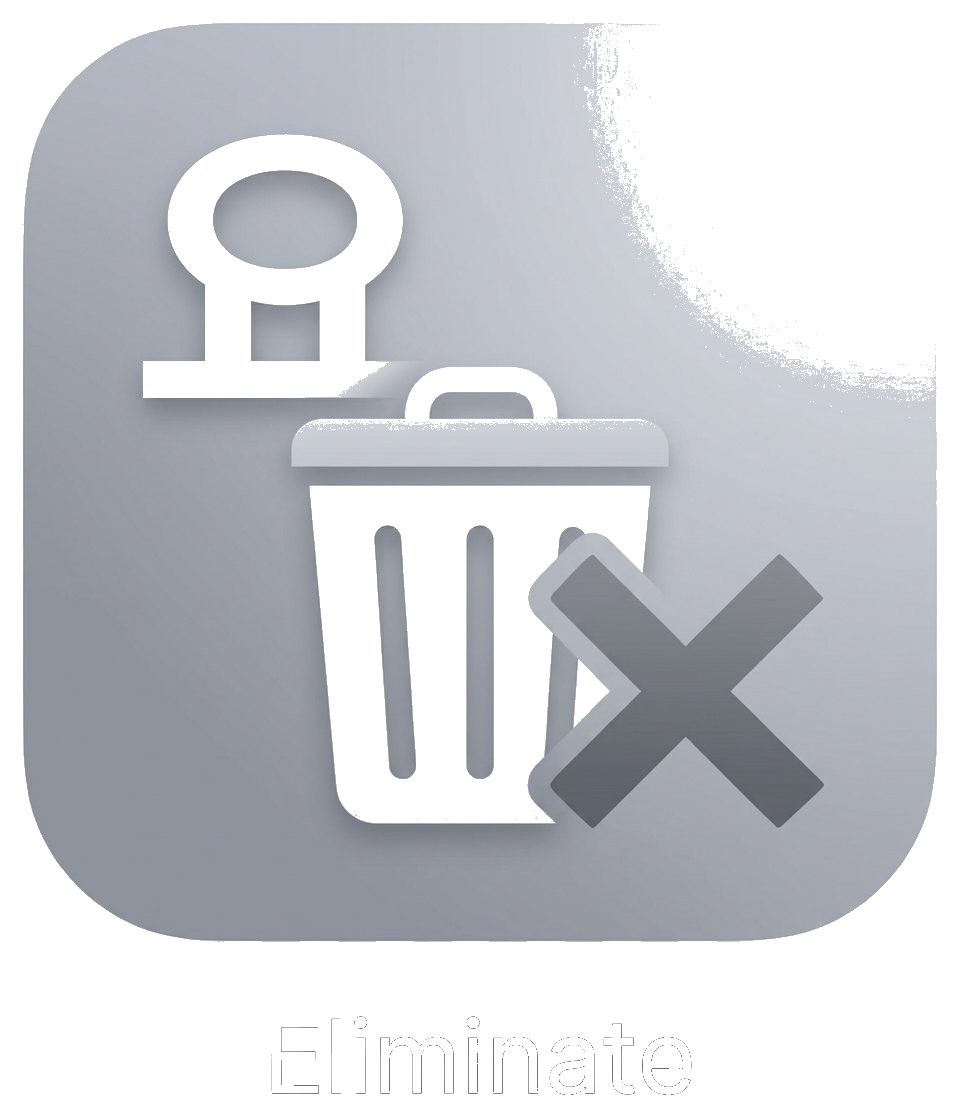
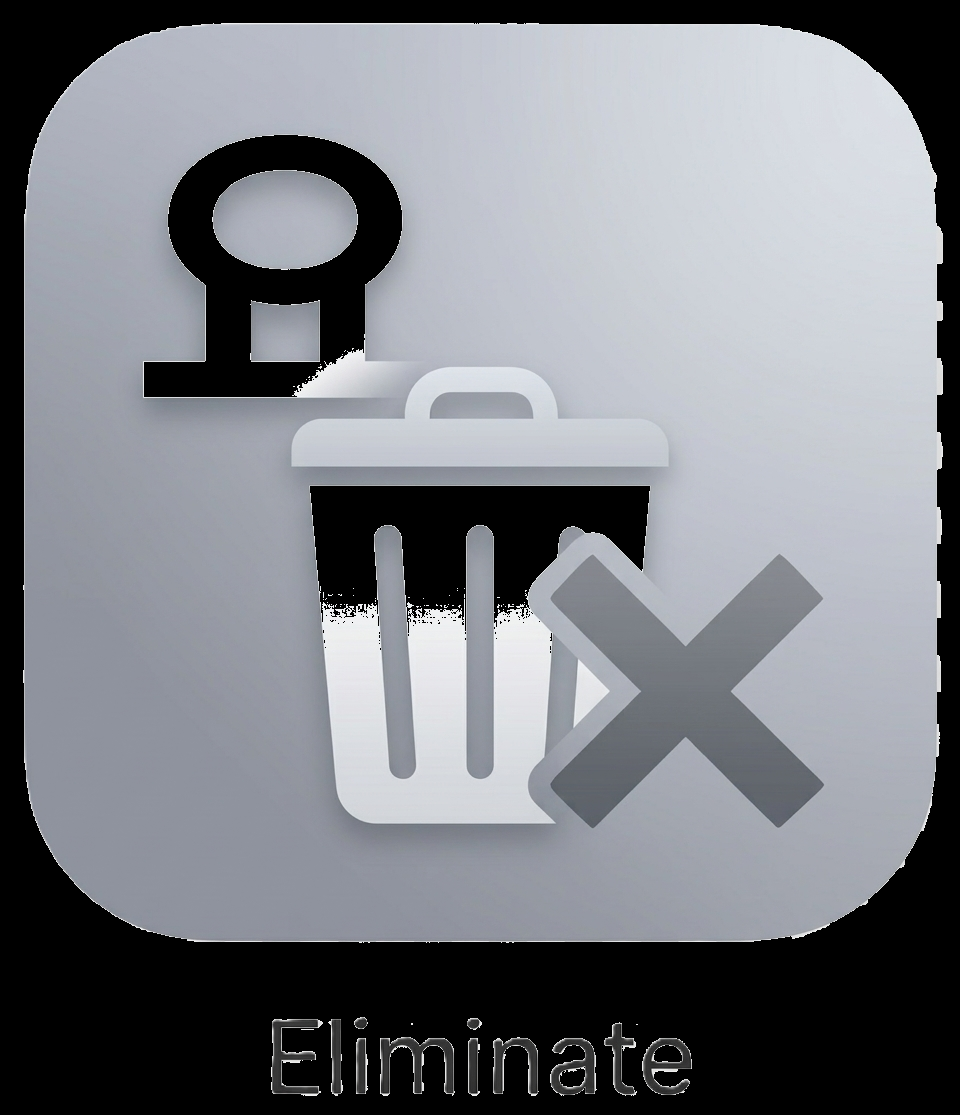
PC 및 모바일 요(Q4) 아이콘을 진짜 최종본(q4_final.png)으로 교체

diff --git a/src/app/all-todos/page.tsx b/src/app/all-todos/page.tsx
@@ -50,7 +50,7 @@ const quadrantIcons: Record<string, string> = {
   'q1': '/q1.png',
   'q2': '/q2.png',
   'q3': '/q3.png',
-  'q4': '/icons/q4_w_black.png',
+  'q4': '/q4_final.png',
   'inbox': '/archive.png'
 };
 
@@ -477,7 +477,7 @@ const AllTodosContent = () => {
                 <img src="/q3.png" alt="줘" className="mobile-nav-icon" />
               </button>
               <button className={`mobile-all-nav-item ${filter === 'q4' ? 'active' : ''}`} onClick={() => handleFilterChange('q4')}>
-                <img src="/icons/q4_w_black.png" alt="요" className="mobile-nav-icon" />
+                <img src="/q4_final.png" alt="요" className="mobile-nav-icon" />
               </button>
               <button className={`mobile-all-nav-item ${filter === 'inbox' ? 'active' : ''}`} onClick={() => handleFilterChange('inbox')}>
                 <Folder size={24} color="white" strokeWidth={1.5} />

diff --git a/src/components/home/QuadrantGrid.tsx b/src/components/home/QuadrantGrid.tsx
@@ -159,7 +159,7 @@ const DroppableQuadrant = ({ q, todos, onDoubleClick }: { q: any; todos: Todo[];
         <div className="q-branding-row">
           <div className="q-branding">
             <img 
-              src={q.id === 4 ? `/icons/q4_w_black.png` : `/q${q.id}.png`} 
+              src={q.id === 4 ? `/q4_final.png` : `/q${q.id}.png`} 
               alt={`Q${q.id} 아이콘`} 
               className="q-icon-img-new" 
               style={{ width: '44px', height: '44px', objectFit: 'contain', flexShrink: 0 }}
